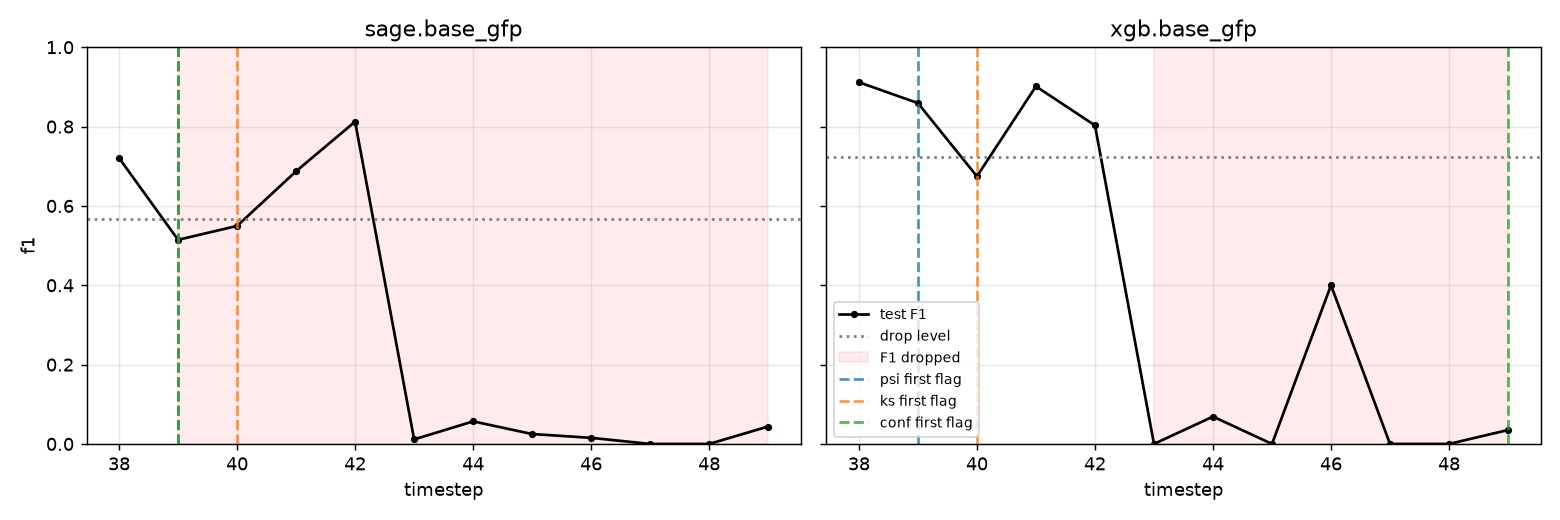
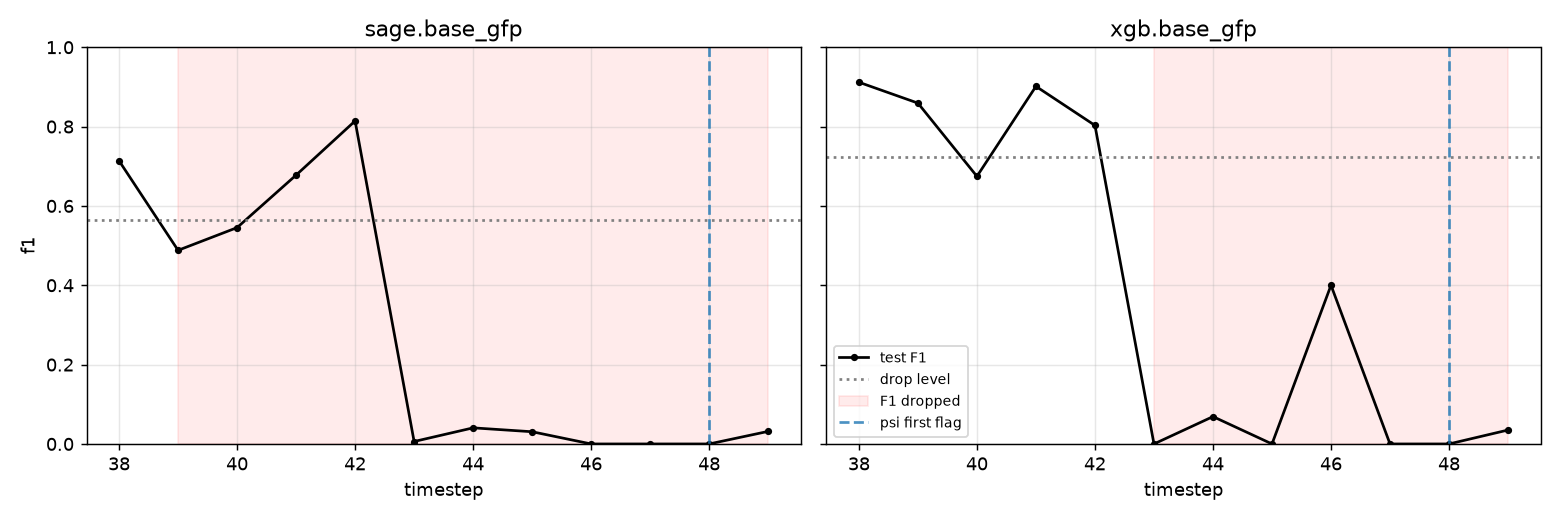
Lead time needs persistent flags; the drift monitor gives no warning (PR-R4)
lead_time counted a detector's first single flag but required the F1 drop
to hold for drop_run batches. Flags now need the same drop_run persistence.

Rerun on Elliptic: PSI first holds a flag at t48 (XGBoost lead -5), KS and
the score-shift detector never hold one, so the earlier 3-4 timestep lead
came from isolated flags. README drift section, figure, tables and status
rewritten around the negative result, with the caveat that SAGE's t39-40
drop is a dip, not the t43 collapse.

diff --git a/tests/test_drift.py b/tests/test_drift.py
@@ -53,15 +53,15 @@ def test_lead_time_is_first_drop_minus_first_flag() -> None:
         {
             "detector": ["psi", "psi", "ks", "ks"],
             "batch_id": [9, 10, 9, 10],
-            "score": [0.1, 0.5, 0.0, 0.0],
-            "flagged": [False, True, False, False],
+            "score": [0.5, 0.5, 0.0, 0.0],
+            "flagged": [True, True, False, False],
             "threshold": [0.2, 0.2, 0.2, 0.2],
         }
     )
     table = lead_time(curve, scores, ref_f1=0.9, drop=0.2).set_index("detector")
 
-    assert table.loc["psi", "first_drop"] == 11 and table.loc["psi", "first_flag"] == 10
-    assert table.loc["psi", "lead"] == 1
+    assert table.loc["psi", "first_drop"] == 11 and table.loc["psi", "first_flag"] == 9
+    assert table.loc["psi", "lead"] == 2
     assert np.isnan(table.loc["ks", "first_flag"]) and np.isnan(table.loc["ks", "lead"])
     assert table["drop_level"].tolist() == pytest.approx([0.72, 0.72])
 
@@ -73,6 +73,22 @@ def test_a_single_dip_is_not_a_drop_but_a_sustained_one_is() -> None:
     ).assign(threshold=0.2)
     assert lead_time(curve, scores, 0.9, 0.2, drop_run=2)["first_drop"].item() == 12
     assert lead_time(curve, scores, 0.9, 0.2, drop_run=1)["first_drop"].item() == 10
+
+
+def test_a_single_flag_is_not_a_warning_but_a_sustained_one_is() -> None:
+    """Flags need the same ``drop_run`` persistence as the F1 drop (PR-R4)."""
+    curve = pd.DataFrame({"time": [9, 10, 11, 12, 13], "f1": [0.8, 0.8, 0.8, 0.3, 0.2]})
+    scores = pd.DataFrame(
+        {
+            "detector": "psi",
+            "batch_id": [13, 9, 10, 11, 12],
+            "flagged": [True, True, False, True, True],
+        }
+    ).assign(score=0.5, threshold=0.2)
+    assert lead_time(curve, scores, 0.9, 0.2, drop_run=2)["first_flag"].item() == 11
+    assert lead_time(curve, scores, 0.9, 0.2, drop_run=1)["first_flag"].item() == 9
+    flicker = scores.assign(flagged=[False, True, False, True, False])
+    assert np.isnan(lead_time(curve, flicker, 0.9, 0.2, drop_run=2)["lead"].item())
 
 
 def test_calibrated_thresholds_are_the_reference_noise_floor() -> None:

diff --git a/mulegraph/drift/monitor.py b/mulegraph/drift/monitor.py
@@ -72,6 +72,14 @@ def score_batches(
     return pd.DataFrame(rows, columns=["detector", "batch_id", "score", "flagged", "threshold"])
 
 
+def _first_run(times: np.ndarray, hits: np.ndarray, run: int) -> float:
+    """First time that starts ``run`` consecutive hits, or NaN."""
+    for i in range(len(hits) - run + 1):
+        if hits[i : i + run].all():
+            return float(times[i])
+    return float("nan")
+
+
 def lead_time(
     curve: pd.DataFrame,
     scores: pd.DataFrame,
@@ -79,19 +87,16 @@ def lead_time(
     drop: float = 0.2,
     drop_run: int = 2,
 ) -> pd.DataFrame:
-    """Per detector: first batch of a ``drop_run``-long F1 fall under the level − first flag."""
+    """Per detector: first ``drop_run``-long F1 fall − first ``drop_run``-long flag run (PR-R4)."""
     level = (1.0 - drop) * ref_f1
     ordered = curve.sort_values("time")
-    below = (ordered["f1"] < level).to_numpy()
-    first_drop = float("nan")
-    for i in range(len(below) - drop_run + 1):
-        if below[i : i + drop_run].all():
-            first_drop = float(ordered["time"].iloc[i])
-            break
+    first_drop = _first_run(
+        ordered["time"].to_numpy(), (ordered["f1"] < level).to_numpy(), drop_run
+    )
     rows = []
     for detector, block in scores.groupby("detector", sort=False):
-        flagged = block.loc[block["flagged"], "batch_id"]
-        first_flag = float(flagged.min()) if not flagged.empty else float("nan")
+        block = block.sort_values("batch_id")
+        first_flag = _first_run(block["batch_id"].to_numpy(), block["flagged"].to_numpy(), drop_run)
         rows.append(
             {
                 "detector": detector,

diff --git a/mulegraph/config.py b/mulegraph/config.py
@@ -237,7 +237,8 @@ class DriftConfig(Strict):
     conf_flag: float = Field(0.1, gt=0.0, lt=1.0)
     #: Replace the fixed flags with each detector's leave-one-out maximum inside the reference.
     calibrate: bool = False
-    #: Relative F1 fall from the validation mean, sustained for ``drop_run`` batches, = broken.
+    #: Relative F1 fall from the validation mean, sustained for ``drop_run`` batches, = broken;
+    #: a detector warns only after ``drop_run`` consecutive flags.
     f1_drop: float = Field(0.2, gt=0.0, lt=1.0)
     drop_run: int = Field(2, ge=1)
 

diff --git a/README.md b/README.md
@@ -18,9 +18,9 @@ anyone outside a bank.
 ![Drift monitor on the Elliptic t43 collapse](report/figures/elliptic_drift_drift.png)
 
 *Test F1 per timestep on Elliptic++ (black), the level below which the model counts as broken
-(dotted), the window where it stayed broken (red), and the first timestep each label-free detector
-raised a flag (dashed). For XGBoost the feature-drift detectors fire three to four timesteps before
-the collapse; the detector that watches the model's own scores never does.*
+(dotted), the window where it stayed broken (red), and the first timestep a label-free detector
+flagged two batches in a row (dashed). None of them does so before the collapse: PSI on the
+features first holds a flag at t48, five timesteps after XGBoost broke.*
 
 ## What I found
 
@@ -37,25 +37,42 @@ t43 on, when a dark-market shutdown changed what illicit activity looked like. T
 
 ![Per-timestep F1](report/figures/elliptic_mvp_curves.png)
 
-**Feature drift is visible before performance drift, once the detector is calibrated.** My first
-run with textbook thresholds (PSI ≥ 0.2, KS p < 0.01) flagged every test timestep from t38, and for
-a while I read that as "the detectors don't work" rather than "the thresholds are wrong for 3,000
-rows a batch". Calibrating each detector on its own noise floor — the largest score any validation
-timestep gets against the other two — changes the picture:
+**The label-free monitor did not warn before the collapse.** My first run with textbook thresholds
+(PSI ≥ 0.2, KS p < 0.01) flagged every test timestep from t38, because at 3,000 rows a batch those
+tests reject almost anything. Calibrating each detector on its own noise floor (the largest score
+any validation timestep gets against the other two) stops that. What is left flickers:
 
-| model (features)   | detector           | first flag | F1 collapse | lead (timesteps) |
-|--------------------|--------------------|-----------:|------------:|-----------------:|
-| xgb (local + GFP)  | PSI on features    | t39        | t43         | **4**            |
-| xgb (local + GFP)  | KS on features     | t40        | t43         | **3**            |
-| xgb (local + GFP)  | KS on model scores | t49        | t43         | −6 (missed)      |
-| sage (local + GFP) | PSI on features    | t39        | t39         | 0                |
-| sage (local + GFP) | KS on features     | t40        | t39         | −1               |
-| sage (local + GFP) | KS on model scores | t39        | t39         | 0                |
+```
+timestep            38 39 40 41 42 43 44 45 46 47 48 49
+PSI on features      .  X  .  X  .  .  .  .  X  .  X  X
+KS on features       .  .  X  .  .  X  .  .  .  X  .  X
+KS on XGBoost scores .  .  .  .  .  .  .  .  .  .  .  X
+```
 
-The input distribution moved at t39; XGBoost kept working for four more timesteps and then broke
-when the *relationship* between features and labels changed at t43. Watching the model's score
-distribution alone would have missed that entirely. GraphSAGE had already fallen 20% below its
-validation F1 by t39, so for it "drift" and "failure" arrive together.
+An earlier version of this README counted the first single flag and reported 3–4 timesteps of
+warning for XGBoost. That rule was lopsided: a model only counted as broken after F1 stayed down
+for two timesteps, while one flag counted as a warning. Holding the detectors to the same two-in-a-
+row rule gives:
+
+| model (features)   | detector           | first held flag | F1 drop | lead (timesteps) |
+|--------------------|--------------------|----------------:|--------:|-----------------:|
+| xgb (local + GFP)  | PSI on features    | t48             | t43     | −5               |
+| xgb (local + GFP)  | KS on features     | never           | t43     | —                |
+| xgb (local + GFP)  | KS on model scores | never           | t43     | —                |
+| sage (local + GFP) | PSI on features    | t48             | t39*    | −9               |
+| sage (local + GFP) | KS on features     | never           | t39*    | —                |
+| sage (local + GFP) | KS on model scores | never           | t39*    | —                |
+
+PSI goes quiet through t42–t45, exactly while XGBoost breaks, so the flags at t39 and t41 read
+better as noise than as an early signal. The feature detectors see only the features, so their
+flags are the same for every model and seed; XGBoost's five seeds also give identical fits. The
+table is one observation of one event, not five.
+
+\*The SAGE drop is not the collapse. In four of five seeds SAGE's F1 sits below its drop level at
+t39–t40 (0.49 and 0.55 against 0.56 in the figure), recovers to 0.81 by t42, and then collapses at
+t43 like XGBoost. The two-timestep rule reads that early dip as the break, so its lead of −9 is
+measured from a dip, not the shutdown. Against t43 it is −5, the same as XGBoost, which is what
+the fifth seed shows.
 
 **On AMLworld the graph features matter a lot.** On HI-Small (5.1M transactions, 0.10%
 laundering, IBM's day split), XGBoost on the six raw transaction fields gets F1 0.21 / PR-AUC 0.11;
@@ -122,9 +139,12 @@ host memory alongside the sampler, so its rows come from a Kaggle P100 notebook.
   `transform` inserts every batch twice and doubles every count; ingesting the whole table before
   scoring leaks the future backwards. The only correct pattern is `transform(batch_t)` for *t*
   ascending, and there is a test on a synthetic multi-timestep graph that would catch a regression.
-- **Textbook drift thresholds flag everything.** At a few thousand rows per timestep, KS at p < 0.01
-  rejects half the columns on every batch. The leave-one-out calibration above is the smallest fix
-  that gives a usable signal; a proper treatment would use a permutation test per batch.
+- **Textbook drift thresholds flag everything, and one flag is not a warning.** At a few thousand
+  rows per timestep, KS at p < 0.01 rejects half the columns on every batch. The leave-one-out
+  calibration above stops that but rests on only three reference timesteps, and what it leaves
+  flickers. I first scored lead time from the first single flag and got 3–4 timesteps of warning;
+  asking for two flags in a row, as the F1 drop already did, removes it. A proper treatment would
+  use a permutation test per batch and a longer reference window.
 - **Not done:** a `temporal_inductive` regime on AMLworld (test accounts unseen in training), paired
   significance tests between configs, and drift injection with known typologies. Each is a few days.
 
@@ -166,7 +186,7 @@ Python 3.11 and [uv](https://docs.astral.sh/uv/). Everything is pinned in `uv.lo
 uv sync
 uv run mulegraph smoke                                            # 10 s, synthetic graph, CI
 uv run mulegraph run   --config configs/elliptic_mvp.yaml         # 50 fits, ~9 min on an RTX 4060
-uv run mulegraph drift --config configs/elliptic_drift.yaml       # the headline figure, ~3 min
+uv run mulegraph drift --config configs/elliptic_drift.yaml       # the headline figure, ~3.5 min
 uv run mulegraph run   --config configs/amlworld_hi_small.yaml    # see below
 uv run mlflow ui --backend-store-uri sqlite:///mlruns/mlflow.db
 ```

diff --git a/docs/changelog.md b/docs/changelog.md
@@ -6,6 +6,10 @@ Project history, newest first. Add a dated entry for every tag and every change 
 
 ## Unreleased
 
+### 19 Sep 2026 — Lead time needs persistent flags
+- **Changed** `lead_time` so a detector's first flag must start a `drop_run`-long run of flags, the same persistence the F1 drop already needed (PR-R4). Before, one isolated flag counted: on Elliptic PSI flagged t39 and t41, went silent through the t42–t45 collapse, then flagged t46 and t48–49, and KS never flagged two batches in a row, so the old lead of 4 / 3 timesteps rested on single flags. Rerun result (3 min 34 s, 2.9 GB RSS): PSI first holds a flag at t48 for every model and seed (XGBoost lead −5; SAGE −9 against its t39–40 dip in four seeds, −5 against t43 in the fifth); KS and the score-shift detector never hold one. README drift section, figure and status rewritten around the negative result, with the SAGE dip-versus-collapse caveat.
+- **Measured** `mulegraph drift --config configs/elliptic_drift.yaml`: 3 min 39 s wall, 3.0 GB peak RSS, about 330 MiB GPU on the RTX 4060. The 10 fits take 86 s; scoring and logging after each fit take about 12 s. The five XGBoost seeds give identical fits, and PSI / KS see only features, so both repeat work across seeds.
+
 ### 17 Sep 2026 — Pivot to a portfolio project
 - **Reframed** the repository as a portfolio project. The dissertation scaffolding is gone: milestone dates, week-1 gates, the wall-clock search budget `W`, supervisor questions, the retraining-policy simulator and typology-shift injection are out of scope. `docs/project_spec.md` is cut down to `docs/design.md` (question, D1–D4, contracts, requirement register); `docs/methods_draft.md` becomes `docs/methods.md` with the literature comparison folded in from the viability review, which is removed. The `issue` / `close-issue` / `issues-sync` skills and the `simulate` / `report` CLI stubs are removed.
 - **Dropped** the IBM Multi-GNN PNA reference row. Its published configuration needs more than the laptop's 8 GB of GPU memory (11.88 GiB allocated at OOM), and replicating IBM's exact settings answered nothing the two-by-two does not.

diff --git a/docs/project_status.md b/docs/project_status.md
@@ -1,8 +1,8 @@
 # Project Status
 
-**Last updated:** 17 Sep 2026
+**Last updated:** 19 Sep 2026
 **Current milestone:** portfolio v1.0
-**Overall state:** The Elliptic++ benchmark runs end to end on the laptop (50 fits in under nine minutes on an RTX 4060), with per-timestep curves that make the ~t43 dark-market collapse visible and a calibrated label-free drift monitor that gives XGBoost 3–4 timesteps of warning (PSI / KS on features) while the score-shift detector misses the event. AMLworld HI-Small runs as an edge task: XGBoost F1 0.21 → 0.54 with causal GFP features (8 min, 5 GB RSS). The GraphSAGE edge head is built and tested; its AMLworld rows need the Kaggle P100 run in `kaggle/amlworld_sage.md`. The repository is public. The IBM Multi-GNN PNA reference row was dropped: its published configuration needs more than the laptop's 8 GB of GPU memory, and replicating it added nothing to the question.
+**Overall state:** The Elliptic++ benchmark runs end to end on the laptop (50 fits in under nine minutes on an RTX 4060), with per-timestep curves that make the ~t43 dark-market collapse visible and a calibrated label-free drift monitor that gives no warning of the collapse once a flag, like the F1 drop, must hold for two timesteps: PSI first holds at t48 (lead −5), KS and the score-shift detector never hold. The earlier 3–4 timestep lead came from counting single flags. AMLworld HI-Small runs as an edge task: XGBoost F1 0.21 → 0.54 with causal GFP features (8 min, 5 GB RSS). The GraphSAGE edge head is built and tested; its AMLworld rows need the Kaggle P100 run in `kaggle/amlworld_sage.md`. The repository is public. The IBM Multi-GNN PNA reference row was dropped: its published configuration needs more than the laptop's 8 GB of GPU memory, and replicating it added nothing to the question.
 
 ## Still open
 

diff --git a/docs/design.md b/docs/design.md
@@ -110,7 +110,7 @@ Every component depends only on the shared types in `mulegraph/types.py` (`Graph
 1. One temporal regime only (validated). Same load, features and split as above.
 2. Each model × seed is fitted exactly as in the benchmark. The model then scores **every unit** whose `batch_id` falls in the validation or test window, labelled or not.
 3. Detectors compare each post-reference batch to the validation batches: PSI per feature column (score = max; flag ≥ 0.2), two-sample KS per column (score = fraction with p < 0.01; flag > 0.2), and KS on the model's own scores (flag p < 0.01). They receive feature values and scores only.
-4. Lead time = (first test batch where F1 falls more than 20% below the validation mean) − (first flagged batch), per detector. Labels enter only here, in the evaluation of the detector.
+4. Lead time = (first test batch starting a `drop_run`-long stretch where F1 is more than 20% below the validation mean) − (first batch starting a `drop_run`-long run of flags), per detector. The drop and the flag need the same persistence, so a one-batch flag is not a warning. Labels enter only here, in the evaluation of the detector.
 5. Outputs: `report/tables/<experiment>_scores.csv`, `<experiment>_lead_time.csv`, `report/figures/<experiment>_drift.png`, all logged as artifacts.
 
 ### 3.5 Storage and schemas
